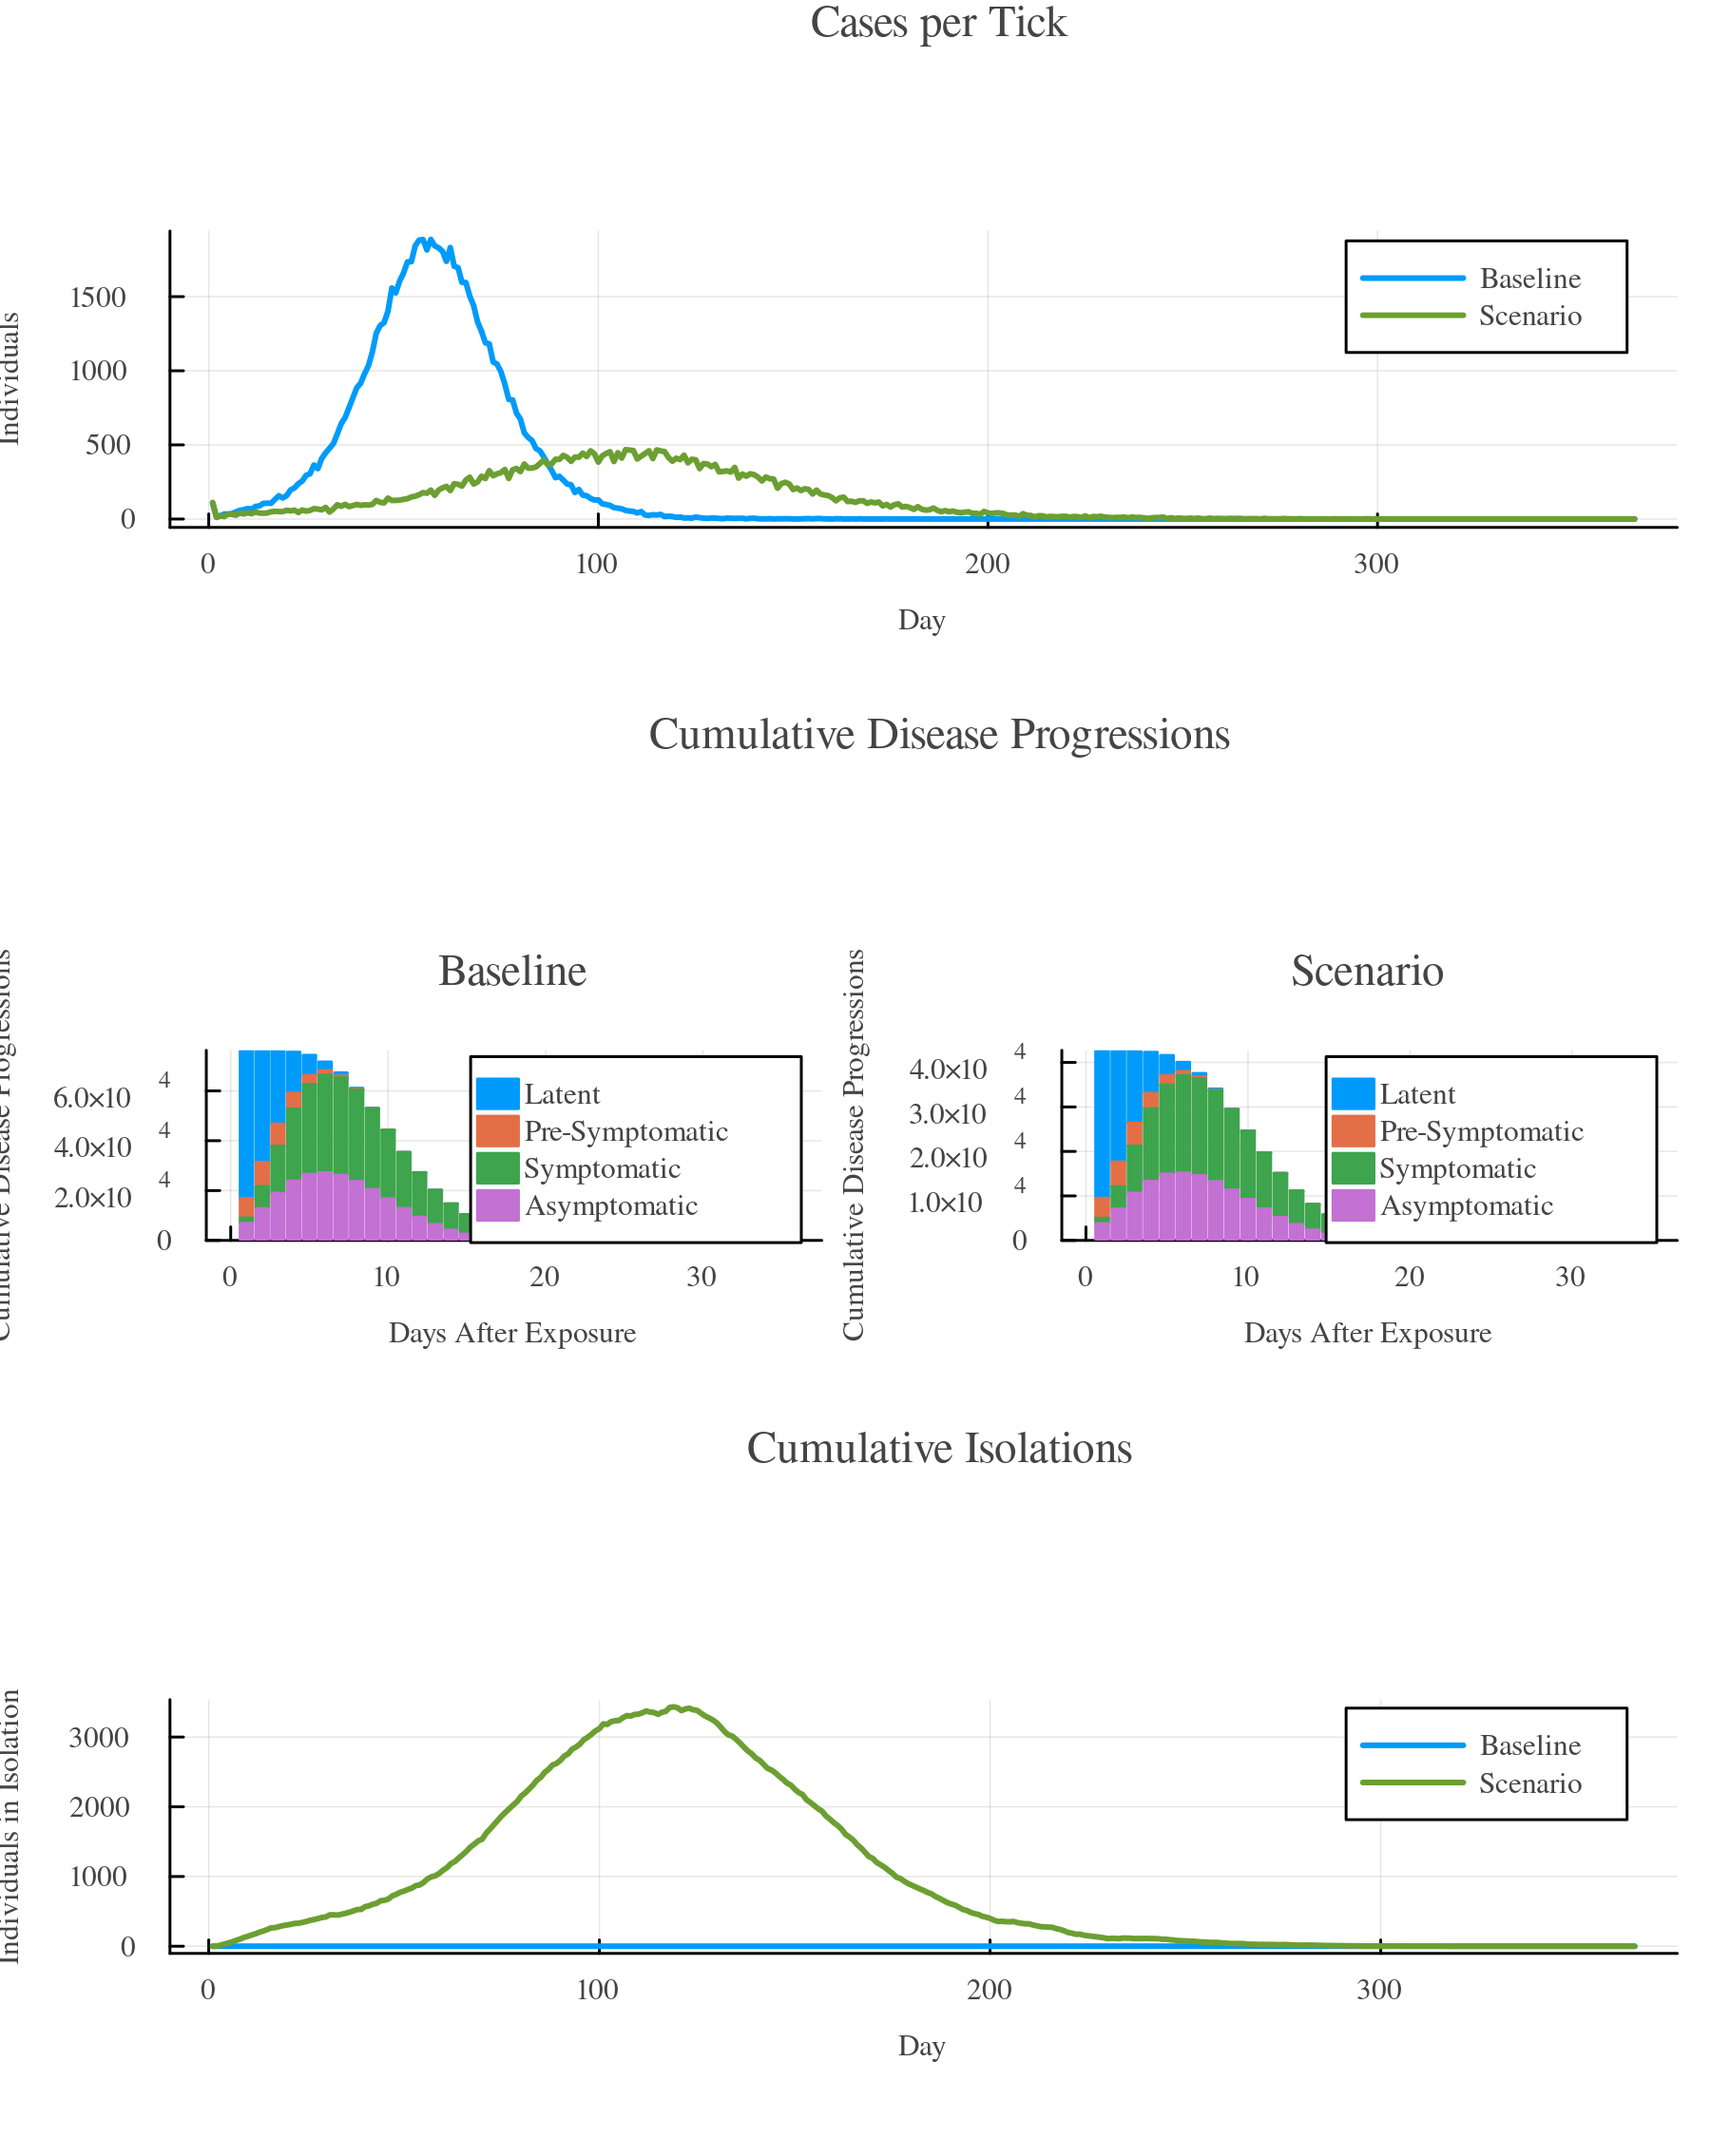
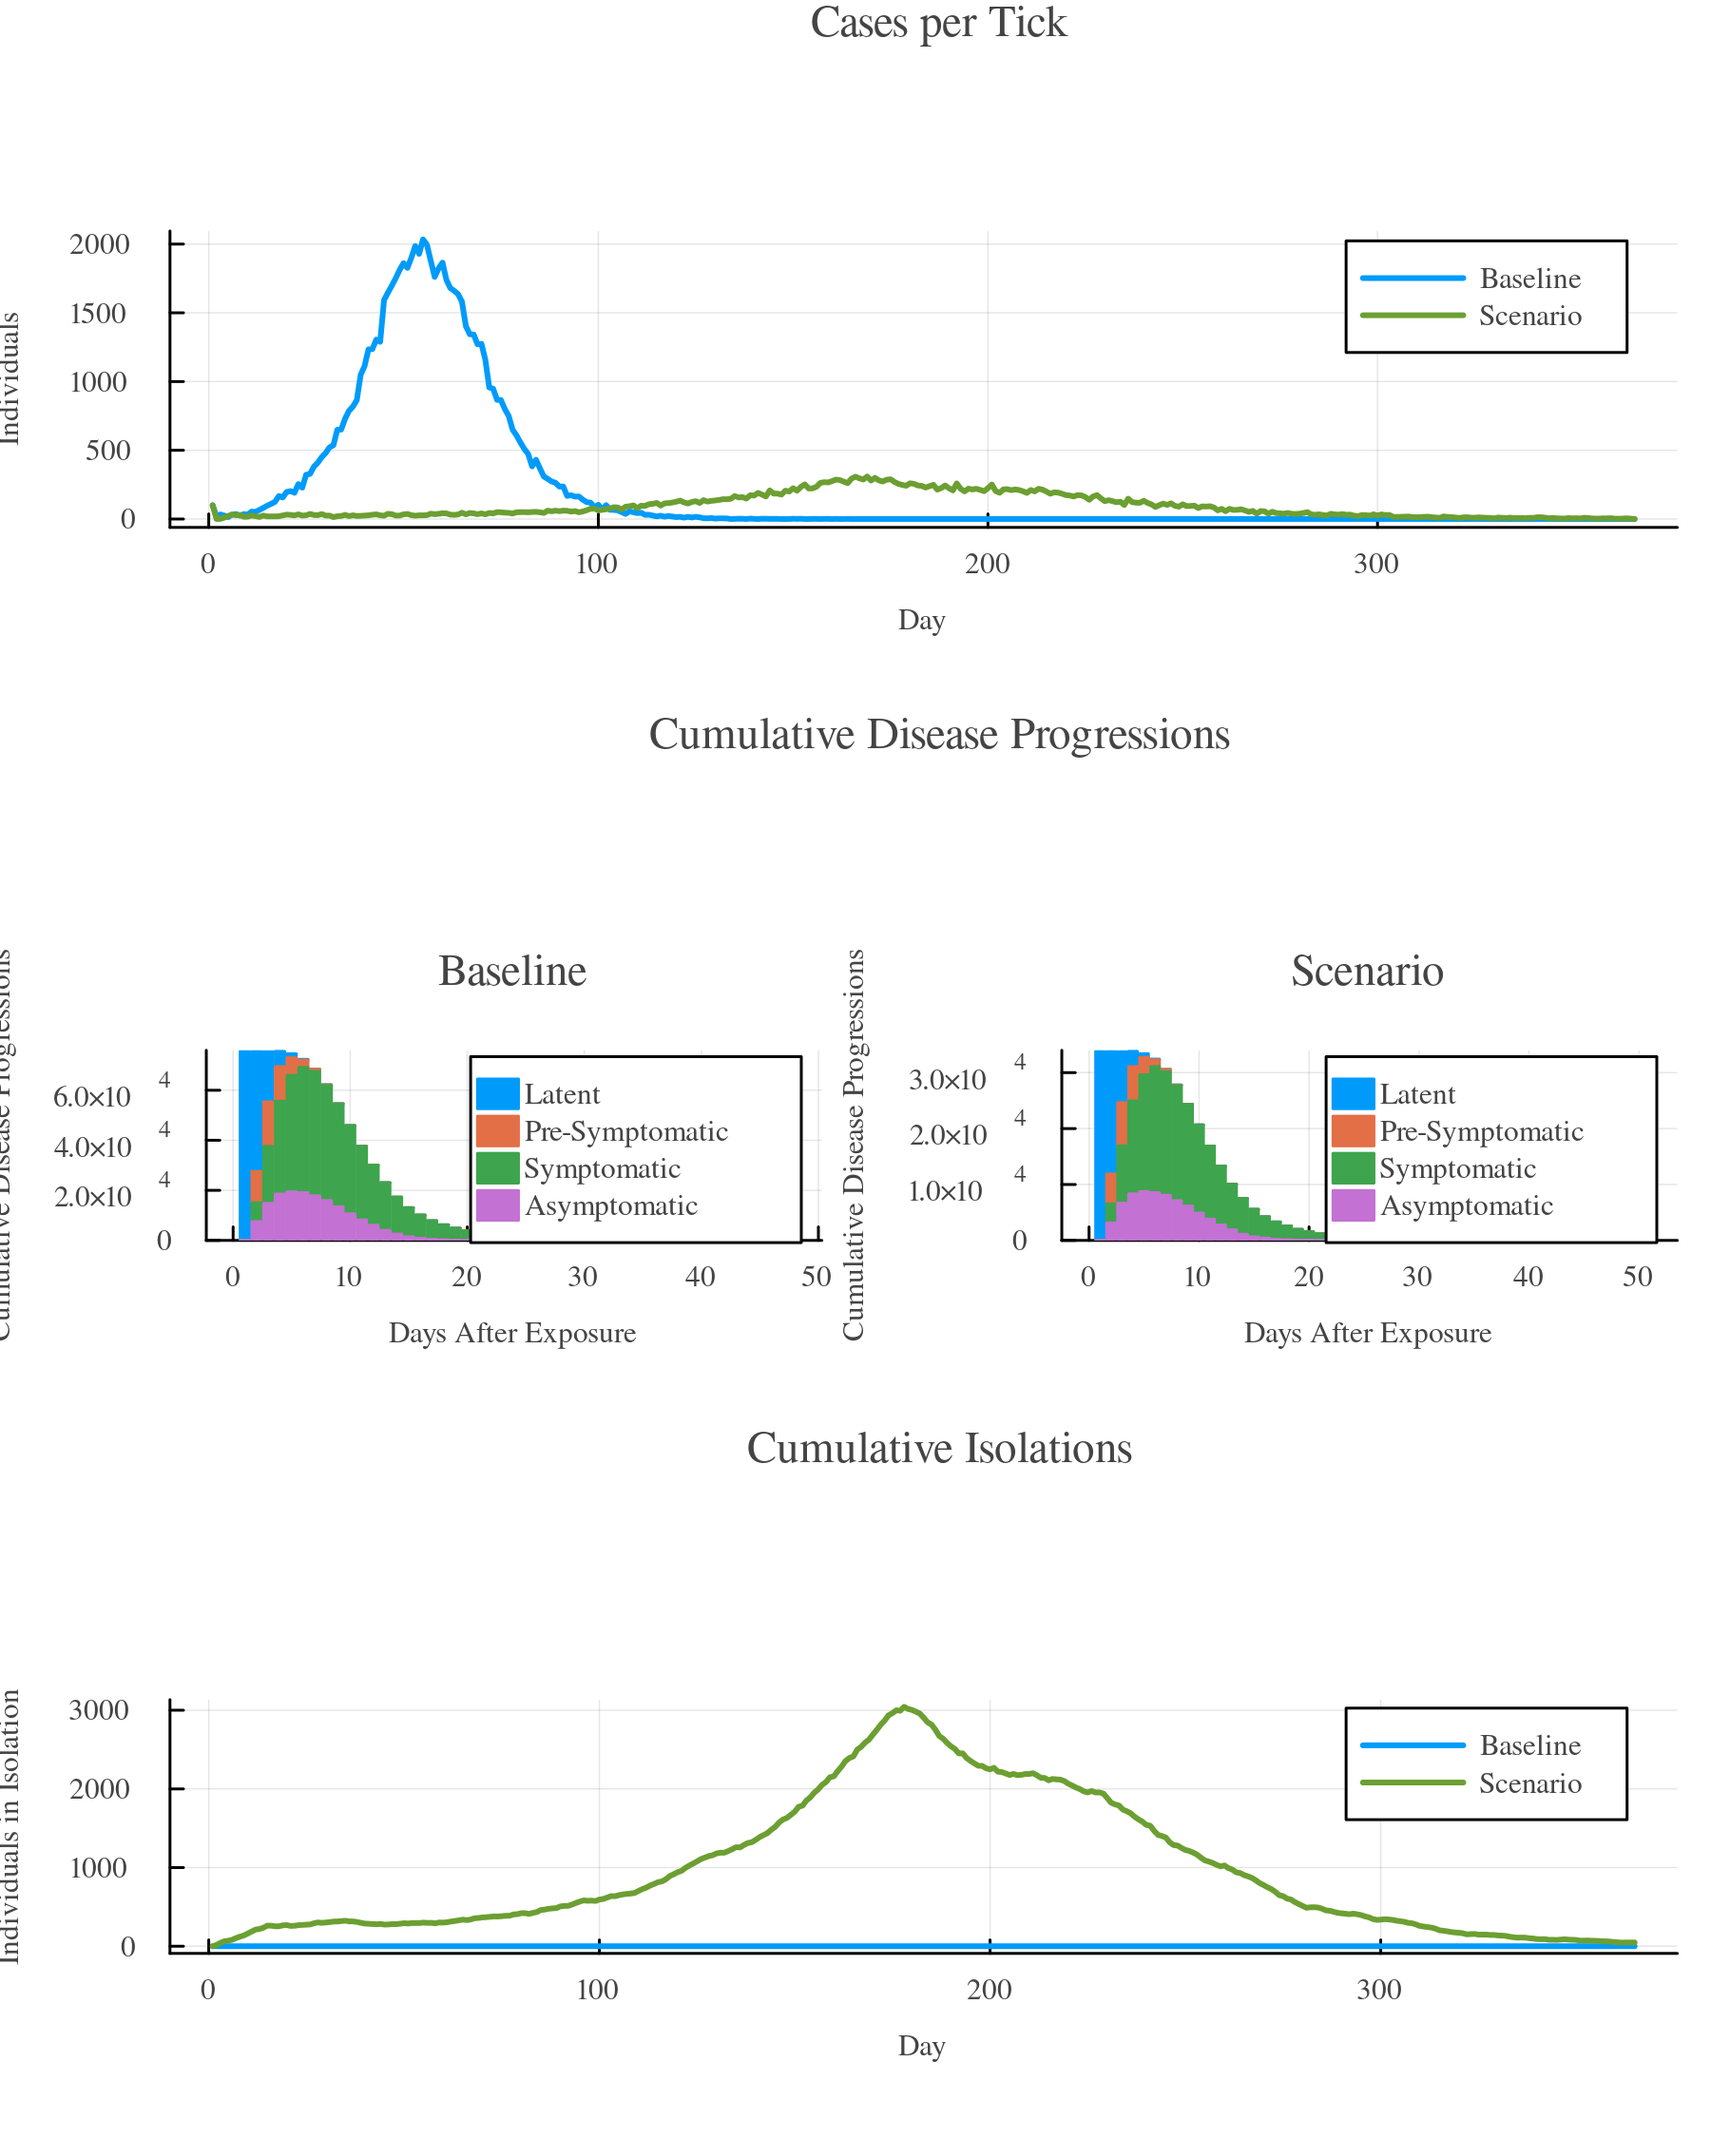
updated intervention tutorials

diff --git a/docs/src/tut_npi.md b/docs/src/tut_npi.md
@@ -270,7 +270,7 @@ gemsplot([rd_b, rd_s], type = (:TickCases, :CumulativeIsolations))
 </p>
 ``` 
 
-The numbers suggest, that isolating the entire household prevents more cases, compared to isolating only the symptomatic individual, but also causes more isolations.
+The numbers suggest, that isolating the entire household ends the epidemic within a weeks with only very few cases, compared to isolating only the symptomatic individual, and even with fewer overall isolations.
 Using `gemsplot`, you can compare both scenarios and the baseline.
 The following code combines the previous two examples:
 
@@ -480,11 +480,12 @@ Once an individual experiences symptoms, all members of their household (includi
   - If multiple people in the household are infected, each individual will get tested multiple times
   - Test results are available immediately
   - With a positive test result, the individual will go into self-isolation for 14 days
+  - Make this disease in this scenario slightly more infectious (.25 transmission rate) to get an epidemic curve.
 
 ```julia
 using GEMS, Plots
 
-scenario = Simulation(label = "Household Testing")
+scenario = Simulation(label = "Household Testing", transmission_rate = .25)
 
 # isolation strategy (14 days)
 self_isolation = IStrategy("Self Isolation", scenario)
@@ -521,7 +522,7 @@ run!(scenario)
 rd = ResultData(scenario)
 plot(
     gemsplot(rd, type = :DetectedCases),
-    gemsplot(rd, type = :CustomLoggerPlot, ylims = (0, 1500)),
+    gemsplot(rd, type = :CustomLoggerPlot, ylims = (0, 2000)),
     layout = (2, 1),
     size = (800, 800))
 ```
@@ -1232,7 +1233,7 @@ The results show fewer cases overall, but especially fewer infections in schoolc
 
 ## Custom Measures
 
-In this scenario, we explore how*risk perception and behavioral change can be modeled dynamically using a custom measure. At the start of the simulation, no one is willing to follow isolation mandates—every individual has a `mandate_compliance` of 0, meaning they will never voluntarily isolate, even if symptomatic.
+In this scenario, we explore how risk perception and behavioral change can be modeled dynamically using a custom measure. At the start of the simulation, no one is willing to follow isolation mandates—every individual has a `mandate_compliance` of 0, meaning they will never voluntarily isolate, even if symptomatic.
 However, people begin to adjust their behavior when someone they know is hospitalized. 
 Specifically, if a person shares a setting (household, office, or schoolclass) with someone who is hospitalized, they become more cautious and begin to comply fully with isolation instructions (i.e., their `mandate_compliance` is set to 1.0). From that point on, if they develop symptoms, they will isolate for 14 days.
 We also made some modifications to the simulation parameters:
@@ -1258,14 +1259,12 @@ We compare the scenario with a simulation without any interventions but the same
 ```julia
 using GEMS
 
-baseline = Simulation(label = "Baseline", progression_categories = [0.4, 0.4, 0.1, 0.1],
- infected_fraction = 0.0001)
+baseline = Simulation(label = "Baseline", infected_fraction = 0.0001)
 
 # Set mandate compliance to 0 for all individuals
 mandate_compliance!.(individuals(baseline), 0.0f0)
 
-scenario = Simulation(label = "Change Mandate Compliance", 
- progression_categories = [0.4, 0.4, 0.1, 0.1], infected_fraction = 0.0001)
+scenario = Simulation(label = "Change Mandate Compliance", infected_fraction = 0.0001)
 
 mandate_compliance!.(individuals(scenario), 0.0f0)
 
@@ -1345,37 +1344,40 @@ To evaluate the impact of this decay, we introduce a 14-day self-isolation measu
 ```julia
 using GEMS
 
+# define a function that adds the isolation strategy to a simulation
+# so we can re-use it for both scenarios
+function initialize_experiment!(sim::Simulation)
+    # make every individual 100% compliant in the beginning
+    mandate_compliance!.(individuals(sim), 1.0)
+    # add isolation scenario
+    self_isolation_scenario = IStrategy("Self Isolation", sim)
+    add_measure!(self_isolation_scenario, SelfIsolation(14), 
+    condition = i -> rand() < mandate_compliance(i))
+    trigger = SymptomTrigger(self_isolation_scenario)
+    add_symptom_trigger!(sim, trigger)
+
+end
+
 # define a function that reduces the mandate_compliance of every individual
 function decaying_mandate_compliance!(sim::Simulation)
     for ind in individuals(sim)
         current  = mandate_compliance(ind)
-        updated  = current - 0.02 * (1 + current)
+        updated  = 0.98 * current
         mandate_compliance!(ind, updated)
     end
 end
 
 baseline = Simulation(label = "Self Isolation")
 scenario = Simulation(label = "Decaying Mandate Adherence",
- stepmod = decaying_mandate_compliance!)
+    stepmod = decaying_mandate_compliance!)
 
-# setup the baseline simulation with a self isolation strategy
-self_isolation = IStrategy("Self Isolation", baseline)
-add_measure!(self_isolation, SelfIsolation(14))
-trigger = SymptomTrigger(self_isolation)
-add_symptom_trigger!(baseline, trigger)
-
-# same scenario but with decaying compliance every day
-self_isolation_scenario = IStrategy("Self Isolation with Decaying Compliance",
- scenario)
-add_measure!(self_isolation_scenario, SelfIsolation(14), 
- condition = i -> rand() < mandate_compliance(i))
-trigger = SymptomTrigger(self_isolation_scenario)
-add_symptom_trigger!(scenario, trigger)
+initialize_experiment!(baseline)
+initialize_experiment!(scenario)
 
 # custom logger
 function avg_compliance(sim)
     inds = individuals(sim)
-    return sum(mandate_compliance.(inds)) / length(inds)
+    return 100 * sum(mandate_compliance.(inds)) / length(inds)
 end
 
 cl = CustomLogger(avg_mandate_compliance = avg_compliance)
@@ -1391,7 +1393,6 @@ rd_s = ResultData(scenario)
 
 gemsplot([rd_b, rd_s], type = (:TickCases, :CumulativeIsolations, :CustomLoggerPlot), 
  legend = :topright)
-
 ```
 
 **Plot**
